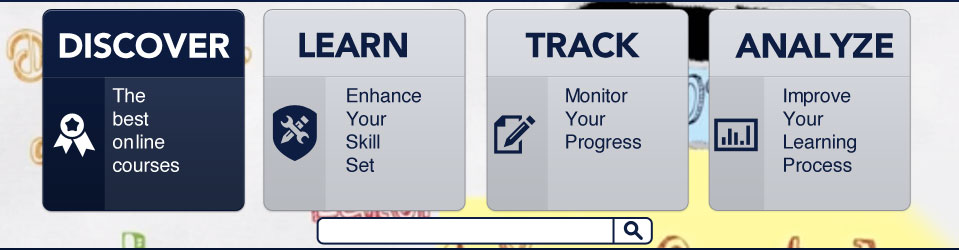
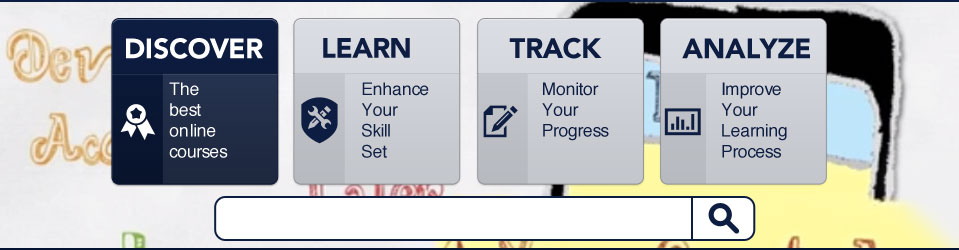
Fix Home Page

diff --git a/app/webroot/css/edubootstrap.css b/app/webroot/css/edubootstrap.css
@@ -25,11 +25,11 @@ body{
 	text-transform: uppercase;
 }
 .description {
- height: 118px;
- padding: 3px;
+ height: 54px;
+ padding: 4px;
 }
-.cost {
- padding: 3px;
+.cost, .duration{
+ padding: 2px 4px;
 }
 .course{
 	background-image: url('../img/courseBox.jpg') ;
@@ -92,5 +92,11 @@ body{
 }
 #browse{
 	width: 960px;
+	height: 80px;
 	clear: both;
+	margin: 10px 400px;
+}
+
+#browse span{
+	margin: 4px;
 }
